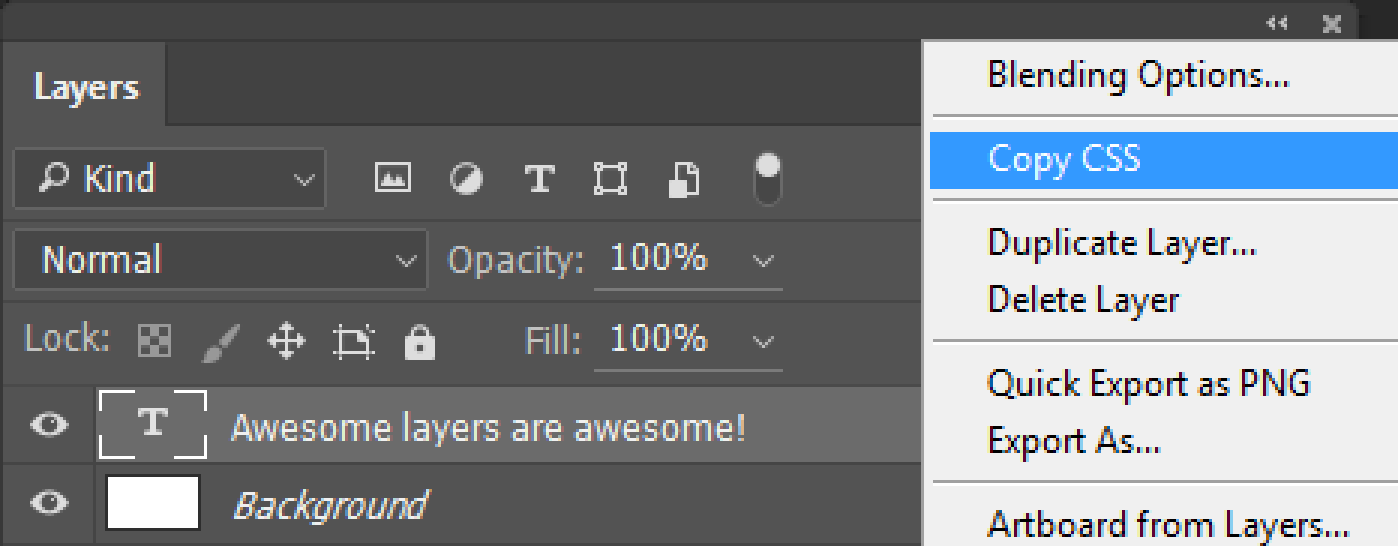
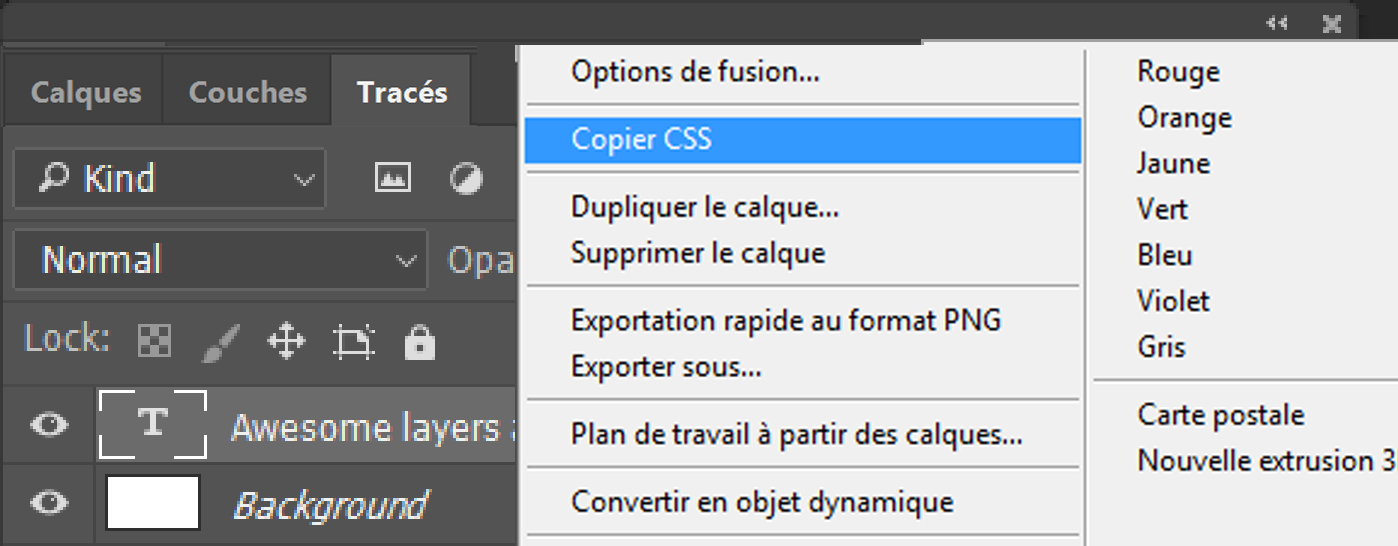
Morning almost / matin quasiment

diff --git a/slides_fr/index.html b/slides_fr/index.html
@@ -67,7 +67,7 @@ Bonjour!!
 			<section>
 				<h3>Je suis Michal Bluma.</h3>
 
-				<h1>Qui êtes <strong>VOUS</strong>?</h1>
+				<h1>Qui êtes-<strong>VOUS</strong>?</h1>
 				<h4 class="fragment" data-fragment-index="1">Veuillez lever la main si vous êtes&nbsp;:</h4>
 
 				<h3 class="fragment" data-fragment-index="1">Graphiste?</h3>
@@ -115,17 +115,17 @@ Bonjour!!
 
 		<section>
 			<section>
-				<h1>Les graphistes coincoivent.</h1>
+				<h1>Les graphistes coinçoivent.</h1>
 
 				<h1>Les développeurs analysent.</h1>
 			</section>
 			<section>
-				<h2>Première étape&nbsp;: ceuillette d'information.</h2>
+				<h2>Première étape&nbsp;: cueillette d'information.</h2>
 
 				<h2>Plus l'information est facile à trouver,<br /> mieux ça va aller.</h2>
 			</section>
 			<section>
-				<h1>La communcation est l'outil le plus important dans votre arsenal.</h1>
+				<h1>La communication est l'outil le plus important dans votre arsenal.</h1>
 
 				<h1 class="fragment">Parlons-en!</h1>
 			</section>
@@ -145,38 +145,38 @@ Bonjour!!
 
 		<section>
 			<section>
-				<h1>Rêver en couleur</h1>
+				<h1>Rêver en couleurs</h1>
 			</section>
 
 
 			<section>
-				<h1>Avant tout, le développeur va receuillir des informations.</h1>
+				<h1>Avant tout, le développeur va recueillir des informations.</h1>
 
 				<h2>Les couleurs, mesures et polices deviendront toutes des variables.</h2>
 			</section>
 
 			<section>
-				<h1>Les sélections remplissent mon c&oelig;ur de chagrin</h1>
+				<h1>Les sélections remplissent mon c&oelig;ur de chagrin.</h1>
 			</section>
 
 
 			<section>
 				<h3>Essayez d'éviter l'outil rectangulaire de sélection (Marquee).</h3>
 
-				<h3>Remplir des sélection de couleur est vraiment rapide.</h3>
+				<h3>Remplir des sélections de couleur est vraiment rapide.</h3>
 
 				<h1 class="fragment">... l'outil de Formes va super vite aussi!</h1>
 			</section>
 
 			<section>
-				<h2>Alternative&nbsp;:</h2>
+				<h2>Autre solution&nbsp;:</h2>
 
 				<h1>Le style de calque «&nbsp;Incrustation&nbsp;couleur&nbsp;»</h1>
 			</section>
 
 
 			<section>
-				<h2>N'utiliser jamais le remplissage pour les dégradés</h2>
+				<h2>N'utilisez jamais le remplissage pour les dégradés</h2>
 
 				<h1 class="fragment">Utilisez toujours une Forme ou une  «&nbsp;Incrustation&nbsp;en&nbsp;dégradé&nbsp;»</h1>
 			</section>
@@ -199,7 +199,7 @@ Bonjour!!
 
 			</section>
 			<section>
-				<h3>Toutes ces couleurs seront des variables en bout de ligne</h3>
+				<h3>Toutes ces couleurs seront des variables en fin de compte</h3>
 				<pre class="code-sample code-colour-variables"><code class="scss">$couleur-principale: rgb( 204, 0, 102 );
 $couleur-liens: rgb( 102, 5, 51 );</code></pre>
 			</section>
@@ -264,15 +264,15 @@ $couleur-liens: rgb( 102, 5, 51 );</code></pre>
 			</section>
 
 			<section>
-				<h2>Astuce: Cataloguer les polices utilisées</h2>
+				<h2>Astuce&nbsp;: Cataloguer les polices utilisées</h2>
 
 				<div class="split-2">
 					<ul>
-						<li>Enregistrer le fichier en tant que PDF<br />(Enregistrer sous... -> &laquo;&nbsp;Photoshop PDF&nbsp;&raquo;).</li>
+						<li>Enregistrez le fichier en tant que PDF<br />(Enregistrer sous... -> &laquo;&nbsp;Photoshop PDF&nbsp;&raquo;).</li>
 						<li>Ouvrez le PDF dans Acrobat.</li>
 						<li>Affichez les propriétés du document<br />(Fichier -> Propriétés).</li>
-						<li>Activate the "Fonts" tab.</li>
-						<li>Tada! A complete list of all fonts used in the PSD.</li>
+						<li>Cliquez sur l'onglet "Polices" tab.</li>
+						<li>Wünderbar! Un liste complète qui énumère toutes les polices utilisées dans le document.</li>
 					</ul>
 					<div><img src="img/acrobat-fonts-list.png" /></div>
 				</div>
@@ -356,7 +356,7 @@ $couleur-liens: rgb( 102, 5, 51 );</code></pre>
 					</div>
 					<h1 class="header-title">Les entêtes sont géniales!</h1>
 					<ul class="header-menu">
-						<li>Toute nos entêtes</li>
+						<li>Tous nos entêtes</li>
 						<li>Maux d'entête?</li>
 						<li>Je danse dans m'entête</li>
 					</ul>
@@ -368,7 +368,7 @@ $couleur-liens: rgb( 102, 5, 51 );</code></pre>
 				<br class="fragment step-4" data-run="header-demo-step-4" />
 
 				<h2 class="header-demo-titles">
-					<span class="step-1">Une belle entête!</span>
+					<span class="step-1">Un bel entête!</span>
 					<span class="step-2">Qu'arrive-t-il si la taille d'écran change?<br />
 					On la laisse telle quelle?</span>
 					<span class="step-3">On retourne en 2006 et on fait un dégradé vers une couleur unie?</span>
@@ -448,13 +448,13 @@ $couleur-liens: rgb( 102, 5, 51 );</code></pre>
 			<section>
 				<h1>Livrables</h1>
 
-				<h3>Package it!</h3>
+				<h2>(Gagnez)<br>Le gros lot!</h2>
 			</section>
 
 			<section>
 				<h1>N'envoyez pas que le PSD.</h1>
 
-				<h1 class="fragment">Prepare a package.</h1>
+				<h1 class="fragment">Préparez un lot.</h1>
 			</section>
 
 			<section>
@@ -497,13 +497,13 @@ $couleur-liens: rgb( 102, 5, 51 );</code></pre>
 			</section>
 
 			<section>
-				<h2>You can right-click most layers and "Copy CSS"</h2>
+				<h2>En cliquant de la droite sur la plupart des calques, on peut &laquo;&nbsp;Copier (le) CSS&raquo;</h2>
 				<img src="img/photoshop-css.png" alt="">
 			</section>
 			<section>
-				<h1>Result: </h1>
+				<h1>Résultat&nbsp;: </h1>
 
-					<pre class="code-sample photoshop-css"><code class="css">.Awesome_layers_are_awesome_ {
+					<pre class="code-sample photoshop-css"><code class="css">.les-super-calques-sont-supers {
   font-size: 48px;
   font-family: "Museo";
   color: rgb(160, 151, 144);
@@ -513,29 +513,29 @@ $couleur-liens: rgb( 102, 5, 51 );</code></pre>
   top: 338.146px;
   z-index: 2;
 }</code></pre>
-				<h4 class="fragment">...not suuuper great.<br /> But it's a start, when you're in a bind.</h4>
+				<h4 class="fragment">...pas le meilleur CSS au monde, disons.<br /> Ça demeure une solution rapide et pratique pour extraires un peu de CSS</h4>
 			</section>
 
 			<section>
-				<h1>Enter... CSS Hat</h1>
-				<h4>by madebySource</h4>
+				<h1>Le tour de chapeau de CSS Hat</h1>
+				<h4>de madebySource</h4>
 			</section>
 			<section>
-				<h3>Click on any layer and get<br /> CSS information right away!</h3>
+				<h3>Cliquez sur un calque et CSS Hat affiche les propriétés CSS immédiatement!</h3>
 				<img src="img/png-hat.png" alt="">
 			</section>
 
 			<section>
-				<h4>madebySource also makes <em>PSD Cleaner</em></h4>
+				<h4>madebySource offrent aussi <em>PSD Cleaner</em></h4>
 				<img src="img/psd-cleaner.png" alt="">
-				<h4>*not a bad thing for designers to run before handing off PSDs</h4>
+				<h4>*Excellent pour les graphistes!</h4>
 			</section>
 
 			<section>
 				<div class="split-2">
 					<img src="img/illustrator-css.png" alt="">
 
-					<h1>Illustrator also has you covered.</h1>
+					<h1>Illustrator est de votre bord.</h1>
 				</div>
 			</section>
 		</section>
@@ -554,41 +554,41 @@ $couleur-liens: rgb( 102, 5, 51 );</code></pre>
 
 		<section>
 			<section>
-				<h1>Does this look familiar?</h1>
+				<h1>Est-ce que ceci vous dit quelque chose?</h1>
 			</section>
 
 			<section data-background-video="videos/old-school-chopup_2.mp4" data-background-color="#000"></section>
 
 			<section class="enter-the-generator">
-				<h2>Enter...</h2>
 
 				<h1 class="fragment">The Generator</h1>
+				<h2>à la rescousse!</h2>
 			</section>
 
 			<section data-background-video="videos/regular-png.mp4" data-background-color="#000"></section>
 
 			<section>
-				<h1>Awesome sauce!</h1>
+				<h1>Génial!</h1>
 
-				<h1 class="fragment">But wait! There's more!</h1>
+				<h1 class="fragment">...vous en voulez plus?</h1>
 			</section>
 			<section data-background-video="videos/multi-resolution_2.mp4" data-background-color="#000"></section>
 
 
 			<section>
-				<h2>The Generator can:</h2>
+				<h2>Le &laquo;&nbsp;Générateur&nbsp;&raquo; peut:</h2>
 				<ul>
-					<li>Export PNGs, JPEGs, GIFs and SVGs</li>
-					<li>Have multiple export options per layer</li>
-					<li>Save you a lot of time</li>
-					<li>Decrease Carpal Tunnel Syndrome</li>
-					<li>Find you a date on a Saturday night</li>
+					<li>Exporter des PNGs, JPEGs, GIFs et SVGs</li>
+					<li>Lire plusieurs options d'exportation par calque</li>
+					<li>Vous épargner du temps</li>
+					<li>Diminuer le syndrome de tunnel carpien</li>
+					<li>Vous permettre de rencontrer votre âme s&oelig;ur</li>
 				</ul>
 
 				<p>
-					<small>* You might still be better off using Illustrator for all your vector (SVG) needs.</small>
+					<small>* Je vous conseille de vous en tenir à Illustrator pour vos images vectorielles (SVG)</small>
 					<br>
-					<small>** One of the elements in the list above might not be true.</small>
+					<small>** La liste contient un mensonge.</small>
 				</p>
 			</section>
 		</section>
@@ -596,19 +596,19 @@ $couleur-liens: rgb( 102, 5, 51 );</code></pre>
 
 		<section>
 			<section>
-				<h1>This will be on the test:</h1>
+				<h1>Êtes vous prêt(e)s pour l'examen?</h1>
 
 				<div class="split-2">
 					<ul>
-						<li>Prepare a list of fonts</li>
-						<li>Prepare a list of colours</li>
-						<li>Don't use Blending Modes</li>
-						<li>Make a package</li>
+						<li>Montez une liste de polices utilisées</li>
+						<li>Montez une liste de couleurs</li>
+						<li>Évitez les Modes de fusion (Blending modes)</li>
+						<li>Préparez un lot</li>
 					</ul>
 					<ul>
-						<li>Communicate</li>
-						<li>Communicate</li>
-						<li>Communicate</li>
+						<li>Communiquez</li>
+						<li>Communiquez</li>
+						<li>Communiquez</li>
 						<li>Most important of all...</li>
 					</ul>
 				</div>
@@ -621,7 +621,7 @@ $couleur-liens: rgb( 102, 5, 51 );</code></pre>
 
 
 		<section>
-			<h1>Link dump!!</h1>
+			<h1>Liens utiles</h1>
 			<ul>
 				<li><a href="http://photoshopetiquette.com">photoshopetiquette.com</a></li>
 				<li><a href="https://madebysource.com/">madebySource (CSS Hat, PNG Hat, PSD Cleaner, ...)</a></li>
@@ -642,7 +642,7 @@ $couleur-liens: rgb( 102, 5, 51 );</code></pre>
 		//          |_|              |___/
 		-->
 		<section>
-			<h1>Epilogue</h1>
+			<h1>Épilogue</h1>
 
 			<h3>Michal Bluma</h3>
 
@@ -654,13 +654,13 @@ $couleur-liens: rgb( 102, 5, 51 );</code></pre>
 				</ul>
 
 				<ul>
-					<li>Fonts used:
-						<a href="https://www.google.com/fonts/specimen/Playfair+Display" style="font-family: 'Playfair Display', serif; font-weight: bolder;">Playfair Display</a> and
+					<li>Polices utilisées&nbsp;:
+						<a href="https://www.google.com/fonts/specimen/Playfair+Display" style="font-family: 'Playfair Display', serif; font-weight: bolder;">Playfair Display</a> et
 						<a href="https://www.google.com/fonts/specimen/Ubuntu">Ubuntu</a></li>
 
-					<li>Presentation library: <a href="http://lab.hakim.se/reveal-js/">reveal.js</a></li>
+					<li>Scripte de diapos&nbsp;: <a href="http://lab.hakim.se/reveal-js/">reveal.js</a></li>
 
-					<li>Thank you so much, WordCamp Ottawa, for having me!! <3</li>
+					<li>Merci beaucoup, WordCamp Montréal!! <3</li>
 				</ul>
 			</div>
 		</section>
